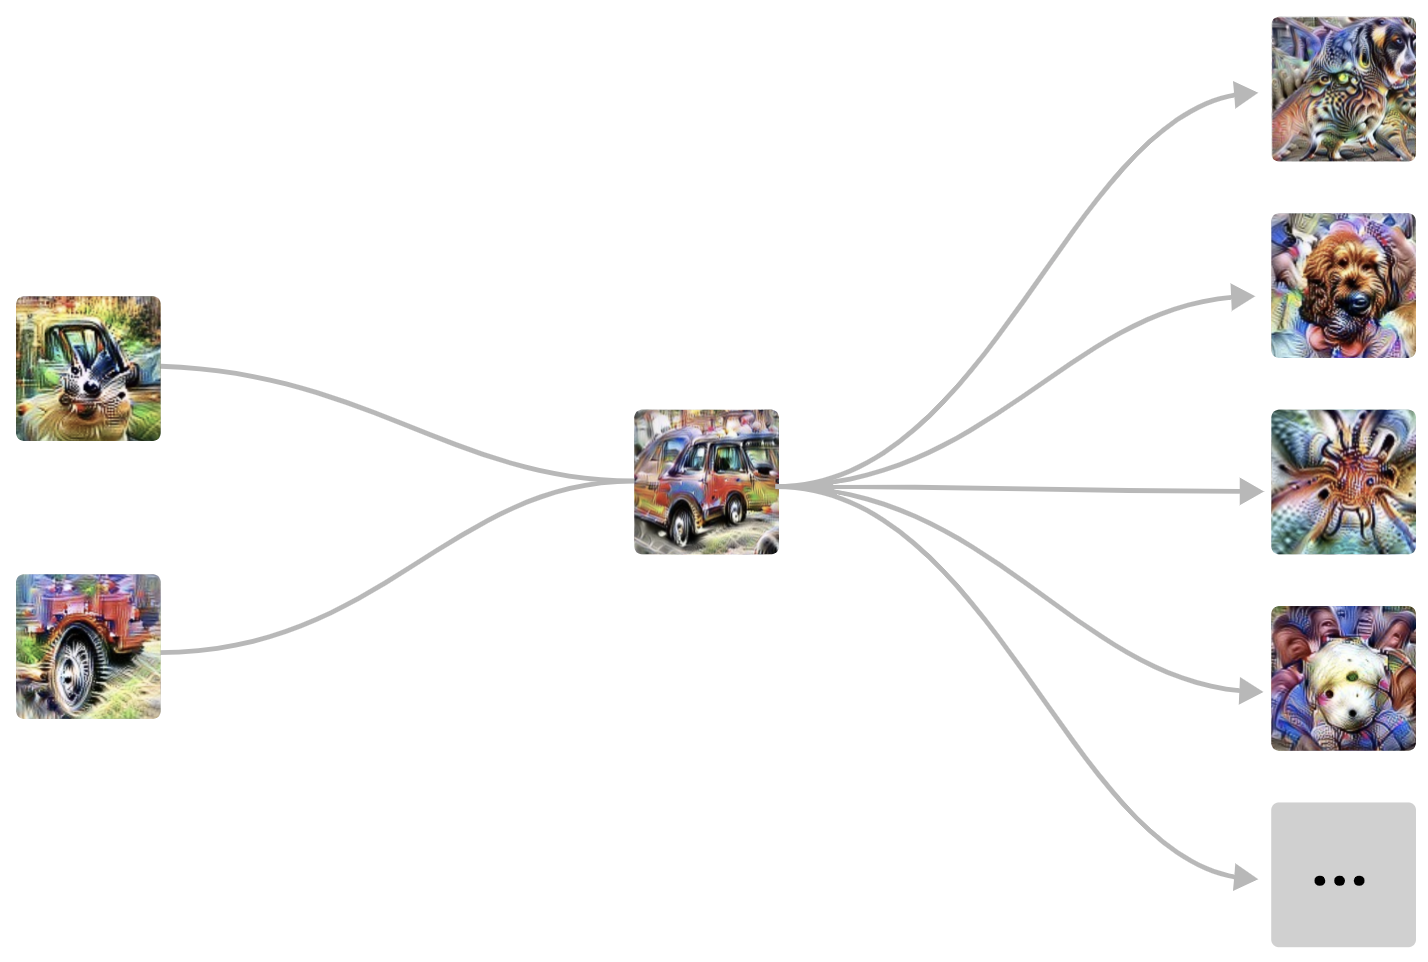
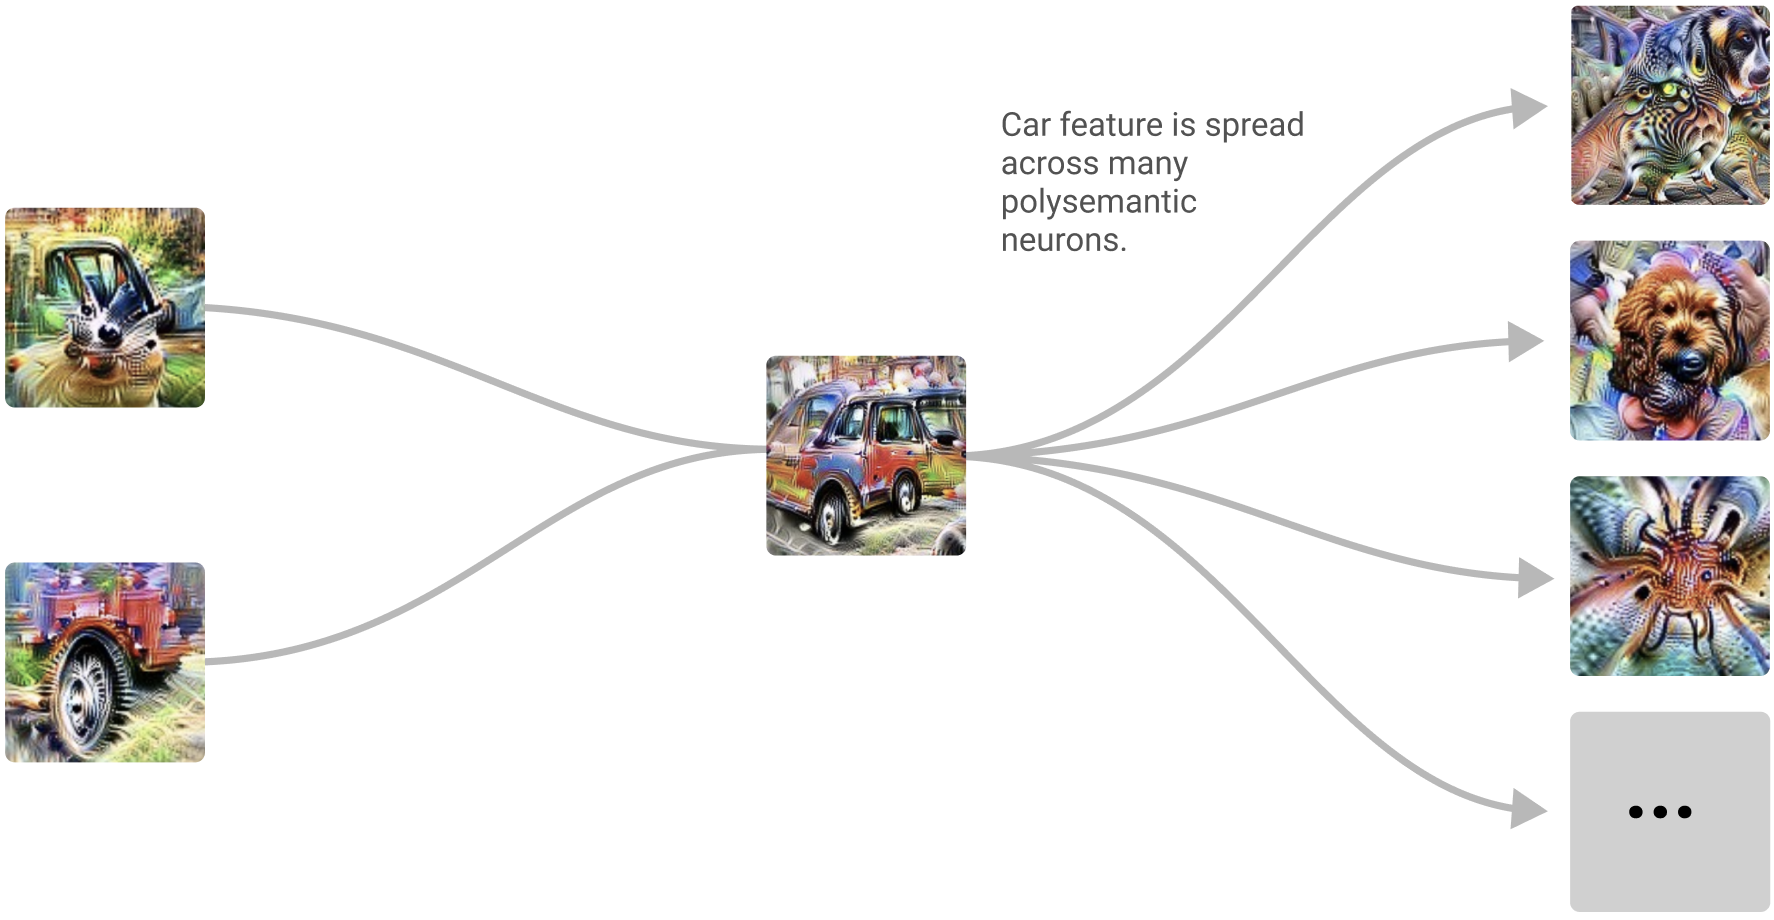
Add circuit motif section

diff --git a/public/index.html b/public/index.html
@@ -39,6 +39,7 @@
             <li><a href="#claim-2-curves">Circuit 1: Curve Detectors</a></li>
             <li><a href="#claim-2-dog">Circuit 2: Oriented Dog Head Detection</a></li>
             <li><a href="#claim-2-superposition">Circuit 3: Cars in Superposition</a></li>
+            <li><a href="#claim-2-motifs">Circuit Motifs</a></li>
           </ul>
           <div><a href="#claim-3">Claim 3: Universality</a></div>
           <div><a href="#natural-science">Interpretability as a Natural Science</a></div>
@@ -222,6 +223,7 @@
 
       <p>
         This introductory essay will only give an overview of a couple examples we think are illustrative, but it will be followed both by deep dives carefully characterizing individual features, and broad overviews sketching out all the features we understand to exist.
+        We will take our examples from InceptionV1<d-cite bibtex-key="szegedy2015going"></d-cite> for now, but believe these claims hold generally and will discuss other models in the final section on universality.
 
       <p>
         Regardless of whether we're correct or mistaken about meaningful features,
@@ -512,7 +514,7 @@ at each point along the curve.</figcaption>
         <!--<figcaption></figcaption>-->
       </figure>
 
-      <p>We call this pattern “unioning over cases”. The network separately detects two cases (left and right) and then unions over them to create invariant units.
+      <p>We call this pattern “unioning over cases”. The network separately detects two cases (left and right) and then unions over them to create invariant "multifaceted"<d-cite bibtex-key="nguyen2016multifaceted"></d-cite> units.
 
       <p>This circuit is striking because the network could have easily done something much less sophisticated.
         It could easily create invariant neurons by not caring very much about where the eyes, fur and snout went, and just looking for a jumble of them together.
@@ -536,16 +538,32 @@ at each point along the curve.</figcaption>
 
       <p>But then the model does something surprising. Rather than create another pure car detector at the next layer, it spreads its car feature over a number of neurons that seem to primarily be doing something else &mdash; in particular, dog detectors.
 
-        <figure>
+        <figure class="l-body-outset">
           <img src="./images/superposition.png"/>
           <!--<figcaption></figcaption>-->
         </figure>
 
-      <p>This circuit suggests that polysemantic neurons are, in some sense, deliberate. That is, you could imagine a world where the process of detecting cars and dogs were deeply intertwined in the model for some reason, and as a result polysemantic neurons were difficult to avoid. But what we’re seeing here is that the model had a “pure neuron” and then mixed it up with other features.
+      <p>This circuit suggests that polysemantic neurons are, in some sense, deliberate. That is, you could imagine a world where the process of detecting cars and dogs was deeply intertwined in the model for some reason, and as a result polysemantic neurons were difficult to avoid. But what we’re seeing here is that the model had a “pure neuron” and then mixed it up with other features.
 
       <p>We call this phenomenon “superposition.”
 
       <p>Why would it do such a thing? We believe superposition allows the model to use fewer neurons, conserving them for more important tasks. As long as cars and dogs don’t co-occur, the model can accurately retrieve the dog feature in a later layer, allowing it to store the feature without dedicating a neuron.<d-footnote>Fundamentally, this is a property of the geometry of high-dimensional spaces, which only allow for n orthogonal vectors, but exponentially many almost orthogonal vectors. </d-footnote>
+
+      <h3 id="claim-2-motifs">Circuit Motifs</h3>
+
+      <p>As we've studied circuits throughout InceptionV1 and other models,
+        we've seen the same abstract patterns over and over.
+        Equivariance, as we saw with the curve detectors.
+        Unioning over cases, as we saw with the pose-invariant dog head detector.
+        Superposition, as we saw with the car detector.
+
+      <p>In biology, a circuit motif <d-cite bibtex-key="alon2019introduction"></d-cite> is a recurring pattern in complex graphs like transcription networks or biological neural networks.
+        Motifs are helpful because understanding one motif can give researchers leverage on all graphs where it occurs.
+
+      <p>
+        We think it's quite likely that studying motifs will be important in understanding the circuits of artificial neural networks. In the long run, it may be more important than the study of individual circuits.
+        At the same time, we expect investigations of motifs to be well served by us first building up a solid foundation well understood circuits first.
+
 
       <hr>
 
@@ -555,7 +573,7 @@ at each point along the curve.</figcaption>
 
       <p class="claim-quote">Analogous features and circuits form across models and tasks.
 
-      <p>In some ways, it may not be that surprising once you accept the earlier claims. It’s a widely accepted fact that the first layer of vision models trained on natural images will learn Gabor filters. There’s also significant research showing that, in some aggregate sense, neural networks learn representations at hidden layers that share a lot of information. Once you accept that there are meaningful features in later layers, is it surprising that the same features would also form in layers beyond the first one? And once you believe there are analogous features, isn’t it expected that they’d connect in the same ways?
+      <p>In some ways, it may not be that surprising once you accept the earlier claims. It’s a widely accepted fact that the first layer of vision models trained on natural images will learn Gabor filters. There’s also several papers showing that, in some aggregate sense, neural networks learn representations at hidden layers that share a lot of information <d-cite bibtex-key="raghu2017svcca,kornblith2019similarity"></d-cite> and even highly correlated neurons<d-cite bibtex-key="li2015convergent"></d-cite>. Once you accept that there are meaningful features in later layers, is it surprising that the same features would also form in layers beyond the first one? And once you believe there are analogous features, isn’t it expected that they’d connect in the same ways?
 
       <p>Unlike the first two claims, it wouldn’t be completely fatal to circuits research if this claim turned out to be false. But it does greatly inform what kind of research makes sense. We introduced circuits as a kind of “cellular biology of deep learning.” But imagine a world where every species had cells with a completely different set of organelles and proteins. Would it still make sense to study cells in general, or would we limit ourselves to the narrow study of a few kinds of particularly important species of cells? Similarly, imagine the study of anatomy in a world where every species of animal had a completely unrelated anatomy: would we seriously study anything other than humans and a couple domestic animals?
 
@@ -819,13 +837,17 @@ at each point along the curve.</figcaption>
       <section id="thread-nav" class="thread-info">
           <div class="icon-multiple-pages"></div>
           <p class="explanation">
-              This article is part of the Circuits thread, a collection of short articles and commentary delving into the inner workings of neural networks.
-              Circuits aims to update weekly on Tuesdays.
-              <a class="overview" href="#">Thread Overview</a>
+              This article is part of the Circuits thread, a collection of short articles and commentary by an open scientific collaboration delving into the inner workings of neural networks.<br>
+              <a style="border-bottom: none; color: #2e6db7; margin-left: 0px;">🔬Learn how to get involved.</a>
+              <!--<a class="overview" href="#">Thread Overview</a>-->
           </p>
 
-          <a class="prev" href="#">An Overview of early vision</a>
-          <a class="next" href="#">Circuit Detectors</a>
+          <a class="prev" href="#">Thread Overview</a>
+          <!--<a class="next" href="#">An Overview of early vision</a>-->
+          <div class="next" href="#" style="color:#666;">An Overview of Early Vision
+            <div style="color:#999; font-size: 90%; line-height: 140%; margin-top: 4px;">Under discussion in <a href="http://slack.distill.pub/">Distill slack</a> <code>#circuits</code></div>
+            <div style="color:#AAA; font-size: 90%; line-height: 140%;"> Anticipated publication next Tuesday, 3/17.</div>
+          </div>
       </section>
 
 
@@ -834,22 +856,48 @@ at each point along the curve.</figcaption>
 
     </d-article>
 
+
+    <style>
+      @media(min-width: 700px){
+        .glossary > p {
+          margin-left: 20px;
+        }
+        .glossary > p > b {
+          margin-left: -20px;
+        }
+        .glossary > p.sub > b {
+          --margin-left: 0px;
+        }
+      }
+    </style>
     <d-appendix>
       <h3 id="glossary">Glossary</h3>
 
-      <p><b>Circuit</b> - A subgraph of a neural network. Nodes correspond to neurons or linear combinations of neurons.
+      <p>
+        This essay introduces some new terminology, and also uses some terminology which isn't common.
+        To help, we provide the following glossary:
+      </p>
+
+      <div class="glossary">
+      <p><b>Circuit</b> - A subgraph of a neural network. Nodes correspond to neurons or directions (linear combinations of neurons).
         Two nodes have an edge between them if they are in adjacent layers. The edges have weights which are the weights between those neurons (or <i>n<sub>1</sub>Wn<sub>2</sub><sup style="margin-left:-4px;">T</sup></i> if the nodes are linear combinations). For convolutional layers, the weights are 2D matrices representing the weights for  different relative positions of the layers.</p>
+      <p><b>Circuit Motif</b> - A recurring, abstract pattern found in circuits, such as equivariance. Inspired by the use of circuit motifs in systems biology <d-cite bibtex-key="alon2019introduction"></d-cite>.</p>
+
       <p><b>Client Neuron</b> - A neuron in a later layer which relies on a particular earlier neuron. For example, a circle detector is a client of curve detectors.</p>
       <p><b>Direction</b> - A linear combination of neurons in a layer. Equivalently, a vector in the representation of a layer. A direction can be an individual neuron (which is a basis direction of the vector space). For intuition about directions as an object, see <a href="https://distill.pub/2018/building-blocks/">Building Blocks</a><d-cite bibtex-key="olah2018building"></d-cite> (in particular, the section titled "What Does the Network See?") and <a href="https://distill.pub/2019/activation-atlas/">Activation Atlases</a><d-cite bibtex-key="carter2019activation"></d-cite>.</p>
       <p><b>Downstream / Upstream</b> - In a later layer / In an earlier layer.</p>
-      <p><b>Feature</b> - A scalar function of the input. In this essay, neural network features are <b>directions</b>, and often simply individual neurons. We claim such features in neural networks are typically <b>meaningful features</b> which can be rigorously studied (<a href="claim-1">Claim 1</a>).</p>
-      <p><b>Meaningful Feature</b> - A feature that genuinely responds to an articulable property of the input, such as the presence of a curve or a floppy ear. Meaningful features may still be noisy or imperfect.</p>
+      <p><b>Feature</b> - A scalar function of the input. In this essay, neural network features are directions, and often simply individual neurons. We claim such features in neural networks are typically meaningful features which can be rigorously studied (<a href="claim-1">Claim 1</a>).</p>
+      <p class="sub"><b>Meaningful Feature</b> - A feature that genuinely responds to an articulable property of the input, such as the presence of a curve or a floppy ear. Meaningful features may still be noisy or imperfect.</p>
+      <p class="sub"><b>Polysemantic Feature</b> - A feature that responds to multiple unrelated latent variables, such as the cat/car neuron <d-cite bibtex-key="olah2017feature"></d-cite>. This can be seen a special case of a "multifaceted features"<d-cite bibtex-key="nguyen2016multifaceted"></d-cite> which responds to multiple different cases, but include both "real" multi-faceted features such as the pose-invariant dog head or polysemantic neurons. Contrast with pure.</p>
+      <p class="sub"><b>Pure Feature</b> - A feature which responds to only a single latent variable. Contrast with polysemantic.</p>
+      <p class="sub"><b>Universal Feature</b> - A feature which reliably forms across different models and tasks.</p>
       <p><b>Representation</b> - The vector space formed by the activations of all neurons in a layer, with vectors of the form <i>(activation of neuron 1, activation of neuron 2, ...)</i>. A representation can be thought of as the collection of all features that exist in a layer. For intuition about representations in vision models, see <a href="https://distill.pub/2019/activation-atlas/">Activation Atlases</a><d-cite bibtex-key="carter2019activation"></d-cite>.</p>
+      </div>
 
 
       <h3>Historical Note</h3>
       <p>
-        The content of this essay was previously presented as a keynote talk by Chris Olah at <a href="https://visxai.io/">VISxAI</a> 2019.
+        The ideas in this introductory essay were previously presented as a keynote talk by Chris Olah at <a href="https://visxai.io/">VISxAI</a> 2019.
         It was also informally presented at MILA, the Vector Institute, the Redwood Center for Neuroscience, and a private workshop.
       </p>
 
@@ -864,7 +912,7 @@ at each point along the curve.</figcaption>
         In addition to Nick and Sophia's deep engagement, we're more generally appreciative of the neuroscience community's engagement with us,
         especially in sharing hard-won lessons about methodological weaknesses in our work.
         In particular, we appreciate Brian Wandell pushing us in 2018 on not using tuning curves and the importance of families of neurons, which we think has made our  work much stronger.
-        We're also very grateful for the comments of Mareike Grotheer, Natalia Bilenko, Bruno Olshausen, and Jascha Sohl-Dickstein.
+        We're also very grateful for the comments of Mareike Grotheer, Natalia Bilenko, Bruno Olshausen, Philip Sabes, Paul Merolla, James Redd, Thong-Wei Koh, and Jascha Sohl-Dickstein.
         [MORE]
         We think we have a lot to learn from the neuroscience community and are excited to continue doing so.
       </p>

diff --git a/public/index.css b/public/index.css
@@ -265,7 +265,6 @@ h2 {
         grid-template-columns: 65px 1fr 1fr;
         grid-template-areas:
             "icon explanation explanation "
-            "icon overview overview "
             "icon prev next";
         grid-column-gap: 1.5em;
     }
@@ -312,16 +311,17 @@ h2 {
       display: block;
       font-size: 80%;
       font-weight: bold;
-      margin-top: 10px;
+      margin-top: 0px;
       margin-right: 0.5em;
       text-transform: uppercase;
+      margin-bottom: -8px;
     }
 
 
 
-    #thread-nav a.prev,
-    #thread-nav a.next,
-    #thread-nav a.overview {
+    #thread-nav .prev,
+    #thread-nav .next,
+    #thread-nav .overview {
         font-size: 80%;
         font-weight: 600;
         border-bottom: none;
